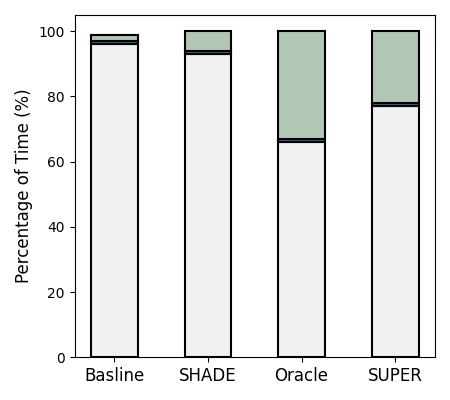
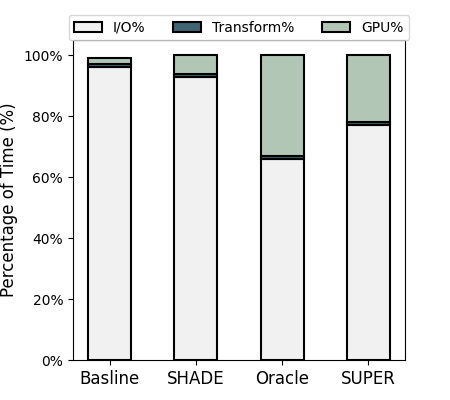
cache support for torch text dataset

Changed region(s): [[0.3733, 0.03, 0.9333, 0.96], [0.0, 0.03, 0.3422, 0.96]]

diff --git a/mlworklaods/llm/pretrainer.py b/mlworklaods/llm/pretrainer.py
@@ -39,6 +39,7 @@ from mlworklaods.utils import (
 class LLMPretrainer():
     def __init__(
         self,
+        job_id,
         train:LLMTrainArgs,
         accelerator: Union[str, Accelerator] = "auto",
         strategy: Union[str, Strategy] = "auto",
@@ -47,7 +48,8 @@ class LLMPretrainer():
         loggers: Optional[Union[Logger, List[Logger]]] = None,
         model_name: Optional[str] = None,
         eval: EvalArgs = EvalArgs(interval=1000, max_iters=100),
-        seed: int = None
+        seed: int = None,
+        max_iters: int = None
     ) -> None:
     
         available_models = "\n".join(sorted(name_to_config))
@@ -65,13 +67,14 @@ class LLMPretrainer():
             precision=precision,
             loggers=loggers,
             )
+        self.max_iters = max_iters
         
         if seed:
             self.fabric.seed_everything(seed)
         
         self.fabric.launch()
         self.train_start_time = time.perf_counter()
-
+        self.job_id = job_id
         
 
     def initialize_model_and_optimizer(self):
@@ -142,9 +145,13 @@ class LLMPretrainer():
             self.fabric.print(f"Measured TFLOPs: {measured_flops * self.fabric.world_size / 1e12:.2f}")
             del meta_model, x
 
-        max_tokens_per_device = self.train.max_tokens // self.fabric.world_size
-        tokens_per_iter = self.train.micro_batch_size * model.max_seq_length
-        max_iters = max_tokens_per_device // tokens_per_iter
+        if self.max_iters is None:
+            max_tokens_per_device = self.train.max_tokens // self.fabric.world_size
+            tokens_per_iter = self.train.micro_batch_size * model.max_seq_length
+            max_iters = max_tokens_per_device // tokens_per_iter
+        else:
+            max_iters = self.max_iters
+
         log_iter_interval = self.train.log_interval * self.train.gradient_accumulation_iters(self.devices)
         initial_iter = state["iter_num"]
         train_iterator = CycleIterator(train_dataloader)
@@ -168,7 +175,7 @@ class LLMPretrainer():
             for input_ids, targets, fetch_time, transform_time  in train_iterator:
                 if state["iter_num"] >= max_iters:
                     break
-                print(transform_time)
+                # print(transform_time)
                 data_load_times.update(time.perf_counter() - end)
                 fetch_times.update(fetch_time)
                 transform_times.update(transform_time)
@@ -184,6 +191,7 @@ class LLMPretrainer():
                 compute_start = time.perf_counter()
 
                 is_accumulating = state["iter_num"] % self.train.gradient_accumulation_iters(self.devices) != 0
+                torch.cuda.synchronize()
                 with self.fabric.no_backward_sync(model, enabled=is_accumulating):
                     logits = model(input_ids)
                     loss = chunked_cross_entropy(logits, targets)
@@ -198,9 +206,10 @@ class LLMPretrainer():
                     state["step_count"] += 1
                 
                 compute_times.update(time.perf_counter() - compute_start)
-
+                torch.cuda.synchronize()
                 if state["iter_num"] % log_iter_interval == 0:
                     loss = running_loss.compute().item()  # expensive device-to-host synchronization
+                    
                     t1 = time.perf_counter()
                     throughput.update(
                         time=(t1 - total_t0),
@@ -230,15 +239,29 @@ class LLMPretrainer():
                     }
                     if isinstance(val_loss, float):
                         val_loss = f"{val_loss:.3f}"
-
+                    
                     self.fabric.print(
-                        f"Epoch {metrics['epoch']+1} | iter {metrics['iter']} step {metrics['step']} |"
-                        f" loss train: {metrics['loss']:.3f},"
-                        f" val: {val_loss} |"
-                        f" iter time: {metrics['iter_time'] * 1000:.2f} ms"
-                        f"{' (step)' if not is_accumulating else ''}"
-                        f" remaining time: {timedelta(seconds=int(metrics['remaining_time']))!s}"
-                    )
+                        f"{self.job_id} | Epoch {metrics['epoch']+1} | iter {metrics['iter']}/{max_iters} |"
+                        f" loss train: {metrics['loss']:.3f} |"
+                        # f" val: {val_loss} |"
+                        f" iter time: {metrics['iter_time']:.2f} |"
+                        f" data time: {metrics['data_time']:.2f} |"
+                        f" compute time: {metrics['compute_time']:.2f} |"
+                        f" fetch time: {metrics['fetch_time']:.2f} |"
+                        f" transform time: {metrics['transform_time']:.2f} |"
+                        f" elapsed time: {metrics['elapsed_time']:.2f} |"
+                        # f"{' (step)' if not is_accumulating else ''}"
+                        # f" remaining time: {timedelta(seconds=int(metrics['remaining_time']))!s}"
+                        )
+
+                    # self.fabric.print(
+                    #     f"Epoch {metrics['epoch']+1} | iter {metrics['iter']} step {metrics['step']} |"
+                    #     f" loss train: {metrics['loss']:.3f},"
+                    #     f" val: {val_loss} |"
+                    #     f" iter time: {metrics['iter_time'] * 1000:.2f} ms"
+                    #     f"{' (step)' if not is_accumulating else ''}"
+                    #     f" remaining time: {timedelta(seconds=int(metrics['remaining_time']))!s}"
+                    # )
 
                     throughput_metrics = throughput.compute()
                     metrics.update(throughput_metrics)
@@ -258,6 +281,10 @@ class LLMPretrainer():
                     metrics = {"val_loss": val_loss, "val_ppl": math.exp(val_loss)}
                     self.fabric.log_dict(metrics, step=state["iter_num"] - 1)
                     self.fabric.barrier()
+
+                # if self.max_steps is not None and self.global_step >= self.max_steps:
+                #     self.should_stop = True
+                #     break
                 end = time.perf_counter()
                 
 

diff --git a/mlworklaods/dataloaders/torch_lru/torch_lru_text_dataset.py b/mlworklaods/dataloaders/torch_lru/torch_lru_text_dataset.py
@@ -9,10 +9,13 @@ import mlworklaods.s3utils as s3utils
 from mlworklaods.s3utils import S3Url
 import glob
 import time
-
+import redis
+import io
+import base64
+import zlib
 class TorchLRUTextDataset(Dataset):
 
-    def __init__(self, data_dir: str, tokenizer: PreTrainedTokenizer, transform, block_size: int, batch_size: int):
+    def __init__(self, data_dir: str, tokenizer: PreTrainedTokenizer, transform, block_size: int, batch_size: int, cache_address:str = None):
 
         self.data_dir = data_dir
         self.tokenizer = tokenizer
@@ -29,35 +32,67 @@ class TorchLRUTextDataset(Dataset):
         else:
             self.file_list = glob.glob(f'{self.data_dir}/*.txt')
         self.current_tokens = None #self._load_next_file()
+        self.cache_host, self.cache_port = None,None
+        if cache_address:
+            self.cache_host, self.cache_port = cache_address.split(":")
+            self.cache_client = redis.StrictRedis(host=self.cache_host, port=self.cache_port)
+            self.use_cache = True
+        else:
+            self.cache_client = None
+            self.use_cache = False
 
+    def fetch_from_cache(self, key):
+        try:
+            return self.cache_client.get(key)
+        except:
+             return None
+        
     def _load_next_file(self):
         if self.current_file_idx >= len(self.file_list):
             # Reset to start reading files from the beginning
             self.current_file_idx = 0
             # raise StopIteration("No more files to read.")
-
         file_path = self.file_list[self.current_file_idx]
+        
+        data = None
+        if self.use_cache:
+            data = self.fetch_from_cache(file_path)
 
+        if data:
+            transform_start_time = time.perf_counter()
+            decoded_data = base64.b64decode(data) # Decode base64
+            decoded_data = zlib.decompress(decoded_data)
+            buffer = io.BytesIO(decoded_data)
+            tokens = torch.load(buffer)
+            transform_duration = time.perf_counter() - transform_start_time
+            self.current_file_idx += 1
+            self.current_position = 0
+            return tokens, transform_duration
+        
         if self.is_s3:
             text = s3utils.get_s3_object(self.bucket_name, file_path)
         else:
             with open(file_path, 'r', encoding='utf-8') as f:
                 text = f.read()
-                    # Apply transform if provided
+        # Apply transform if provided
         transform_start_time = time.perf_counter()
-
         if self.transform:
-            try:
-                text = self.transform(text)
-            except:
-                
-                text = self.transform(text)
-
+            text = self.transform(text)  
+        tokens = self.tokenizer(text, truncation=False, padding=False, return_tensors='pt').input_ids.squeeze()
         transform_duration = time.perf_counter() - transform_start_time
+         
+        if self.use_cache:
+            buffer = io.BytesIO()
+            torch.save(tokens, buffer)
+            token_data = zlib.compress(buffer.getvalue()) #use_compression:
+            token_data = base64.b64encode(token_data).decode('utf-8')
+            try:
+                self.cache_client.set(file_path, token_data)
+            except:
+                pass
 
         self.current_file_idx += 1
         self.current_position = 0
-        tokens = self.tokenizer(text, truncation=False, padding=False, return_tensors='pt').input_ids.squeeze()
         return tokens, transform_duration
 
     def _get_next_batch(self):

diff --git a/mlworklaods/llm/data.py b/mlworklaods/llm/data.py
@@ -226,7 +226,8 @@ class BaseDataModule:
                 tokenizer=self.tokenizer,
                 transform=self.transform,
                 block_size=model_max_seq_length,
-                batch_size=train_args.micro_batch_size
+                batch_size=train_args.micro_batch_size,
+                cache_address=lru_torch_args.cache_address
             )
             train_dataloader = DataLoader(dataset=train_dataset, batch_size=None, num_workers=lru_torch_args.num_pytorch_workers)
         
@@ -236,7 +237,9 @@ class BaseDataModule:
                 tokenizer=self.tokenizer,
                 transform=self.transform,
                 block_size=model_max_seq_length,
-                batch_size=train_args.micro_batch_size
+                batch_size=train_args.micro_batch_size,
+                cache_address=lru_torch_args.cache_address
+
             )
             val_dataloader = DataLoader(dataset=val_dataset, batch_size=None, num_workers=lru_torch_args.num_pytorch_workers)
         
@@ -251,4 +254,4 @@ class OpenWebTextDataModule(BaseDataModule):
         check_and_download_nltk_resource('wordnet')
         text_transformer = TextTransformations()
         transform_func = text_transformer.normalize
-        super().__init__(transform=transform_func, tokenizer=GPT2Tokenizer.from_pretrained('gpt2'))
+        super().__init__(transform=None, tokenizer=GPT2Tokenizer.from_pretrained('gpt2'))

diff --git a/figures/time_breakdown_figure.py b/figures/time_breakdown_figure.py
@@ -1,6 +1,16 @@
 import matplotlib.pyplot as plt
+from matplotlib.ticker import FuncFormatter
 
-# Data
+# # Data resnet 50
+# data = {
+#     'Basline': {'IO %': 72, 'Transformation %': 14, 'GPU %': 14},
+#     'SHADE': {'IO %': 46, 'Transformation %': 23, 'GPU %': 27},
+#     'Oracle': {'IO %': 24, 'Transformation %': 3, 'GPU %': 74},
+#     'SUPER': {'IO %': 38, 'Transformation %': 14, 'GPU %': 48},
+# }
+
+
+# Data resnet18
 data = {
     'Basline': {'IO %': 96, 'Transformation %': 1, 'GPU %': 2},
     'SHADE': {'IO %': 93, 'Transformation %': 1, 'GPU %': 6},
@@ -38,9 +48,17 @@ plt.subplots_adjust(left=0.162, right=0.9, top=0.9, bottom=0.1)
 # Adding labels and title
 plt.ylabel('Percentage of Time (%)', fontsize=12)
 plt.xticks(fontsize=12, weight='normal')  # Adjust the font size as needed
-# plt.legend(['I/O', 'Transform', 'GPU'])
+plt.legend(['I/O%', 'Transform%', 'GPU%'], loc='upper center', bbox_to_anchor=(0.5, 1.1), ncol=3)
 # Adjust layout to avoid overlap
-plt.tight_layout()
+# plt.tight_layout()
 # Show plot
 # plt.show()
+# pass
+# Formatter function to add percentage sign
+def percent_formatter(x, pos):
+    return f'{int(x)}%'
+
+# Apply the formatter to the y-axis
+plt.gca().yaxis.set_major_formatter(FuncFormatter(percent_formatter))
+
 plt.savefig('figures\eval_resnet18_cifar10\percentage_breakdown.png')

diff --git a/mlworklaods/run.py b/mlworklaods/run.py
@@ -31,20 +31,22 @@ def train_model(hydra_config):
             data_module = OpenWebTextDataModule()
 
         trainer = LLMPretrainer(
+            job_id=hydra_config.job_id,
             train= train_args,
             accelerator=train_args.accelerator,
             precision=get_default_supported_precision(True),
             devices=train_args.devices, 
             loggers=[logger],
             model_name=train_args.model_name,
-            seed=train_args.seed
+            seed=train_args.seed,
+            max_iters=train_args.max_steps
         )
 
         model, optmizer = trainer.initialize_model_and_optimizer()  
         train_loader, val_loader = data_module.make_dataloaders(train_args, data_args, dataloader_args, model.max_seq_length)
         os.makedirs(logger.log_dir, exist_ok=True)
         save_hparams_to_yaml(os.path.join(logger.log_dir, "hparms.yaml"), hydra_config)
-        avg_loss, avg_acc = trainer.fit(model, optmizer, train_loader, val_loader)
+        trainer.fit(model, optmizer, train_loader, val_loader)
        
     elif isinstance(train_args, ImgClassifierTrainArgs):
         if 'cifar10' in data_args.dataset_name:

diff --git a/figures/throughput_figure.py b/figures/throughput_figure.py
@@ -1,10 +1,10 @@
 import matplotlib.pyplot as plt
 
 data = {
-    'Baseline': 4.13688431219181,
-    'SHADE': 13.8218243663058,
-    'Oracle': 68.6356083667513,
-    'SUPER': 42.5324474846663,
+    'Baseline': 2.78696508415782,
+    'SHADE': 3.13318390260257,
+    'Oracle': 8.6356083667513,
+    'SUPER': 5.65832064020547,
 }
 
 pytorch_color ='#F1F1F2'  
@@ -43,4 +43,4 @@ plt.xticks(fontsize=12, weight='normal')  # Adjust the font size as needed
 plt.legend(bar, data.keys())
 
 # plt.show()
-plt.savefig('figures/eval_resnet18_cifar10/throughput.png')
+plt.savefig('figures/eval_resnet50_cifar10/throughput.png')
